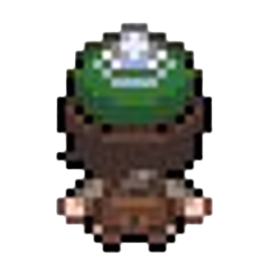
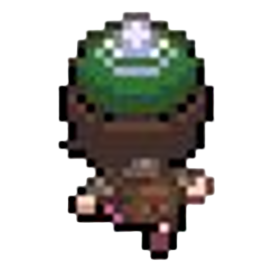
fixed stuff about moving

diff --git a/sprites.py b/sprites.py
@@ -24,9 +24,9 @@ class Player(pygame.sprite.Sprite):
         self.direction=1
         self.whichImage=1
         self.counter=0
-        self.imageRight=[pygame.transform.scale(pygame.image.load("assets/playerUp1.png"),(width, height)), pygame.transform.scale(pygame.image.load("assets/playerRight1.png"),(width, height))]#[pygame.transform.scale(pygame.image.load("assets/playerRight1"),(width, height)), pygame.transform.scale(pygame.image.load("assets/playerRight2.png"),(width, height))]
-        self.imageLeft=[pygame.transform.scale(pygame.image.load("assets/playerUp1.png"),(width, height)), pygame.transform.scale(pygame.image.load("assets/playerRight1.png"),(width, height))]#[pygame.transform.scale(pygame.image.load("assets/playerLeft1.png"),(width, height)), pygame.transform.scale(pygame.image.load("assets/playerRight2.png"),(width, height))]
-        self.imageUp=[pygame.transform.scale(pygame.image.load("assets/playerUp1.png"),(width, height)), pygame.transform.scale(pygame.image.load("assets/playerRight1.png"),(width, height))]
+        self.imageRight=[pygame.transform.scale(pygame.image.load("assets/playerRight2.png"),(width, height)), pygame.transform.scale(pygame.image.load("assets/playerRight2.png"),(width, height))]#, pygame.transform.scale(pygame.image.load("assets/playerRight1.png"),(width, height))]#[pygame.transform.scale(pygame.image.load("assets/playerRight1"),(width, height)), pygame.transform.scale(pygame.image.load("assets/playerRight2.png"),(width, height))]
+        self.imageLeft=[pygame.transform.scale(pygame.image.load("assets/playerLeft2.png"),(width, height)), pygame.transform.scale(pygame.image.load("assets/playerLeft2.png"),(width, height))]#[pygame.transform.scale(pygame.image.load("assets/playerLeft1.png"),(width, height)), pygame.transform.scale(pygame.image.load("assets/playerRight2.png"),(width, height))]
+        self.imageUp=[pygame.transform.scale(pygame.image.load("assets/playerUp1.png"),(width, height)), pygame.transform.scale(pygame.image.load("assets/playerUp2.png"),(width, height))]
         self.images=self.imageUp
 
     def move(self, event):
